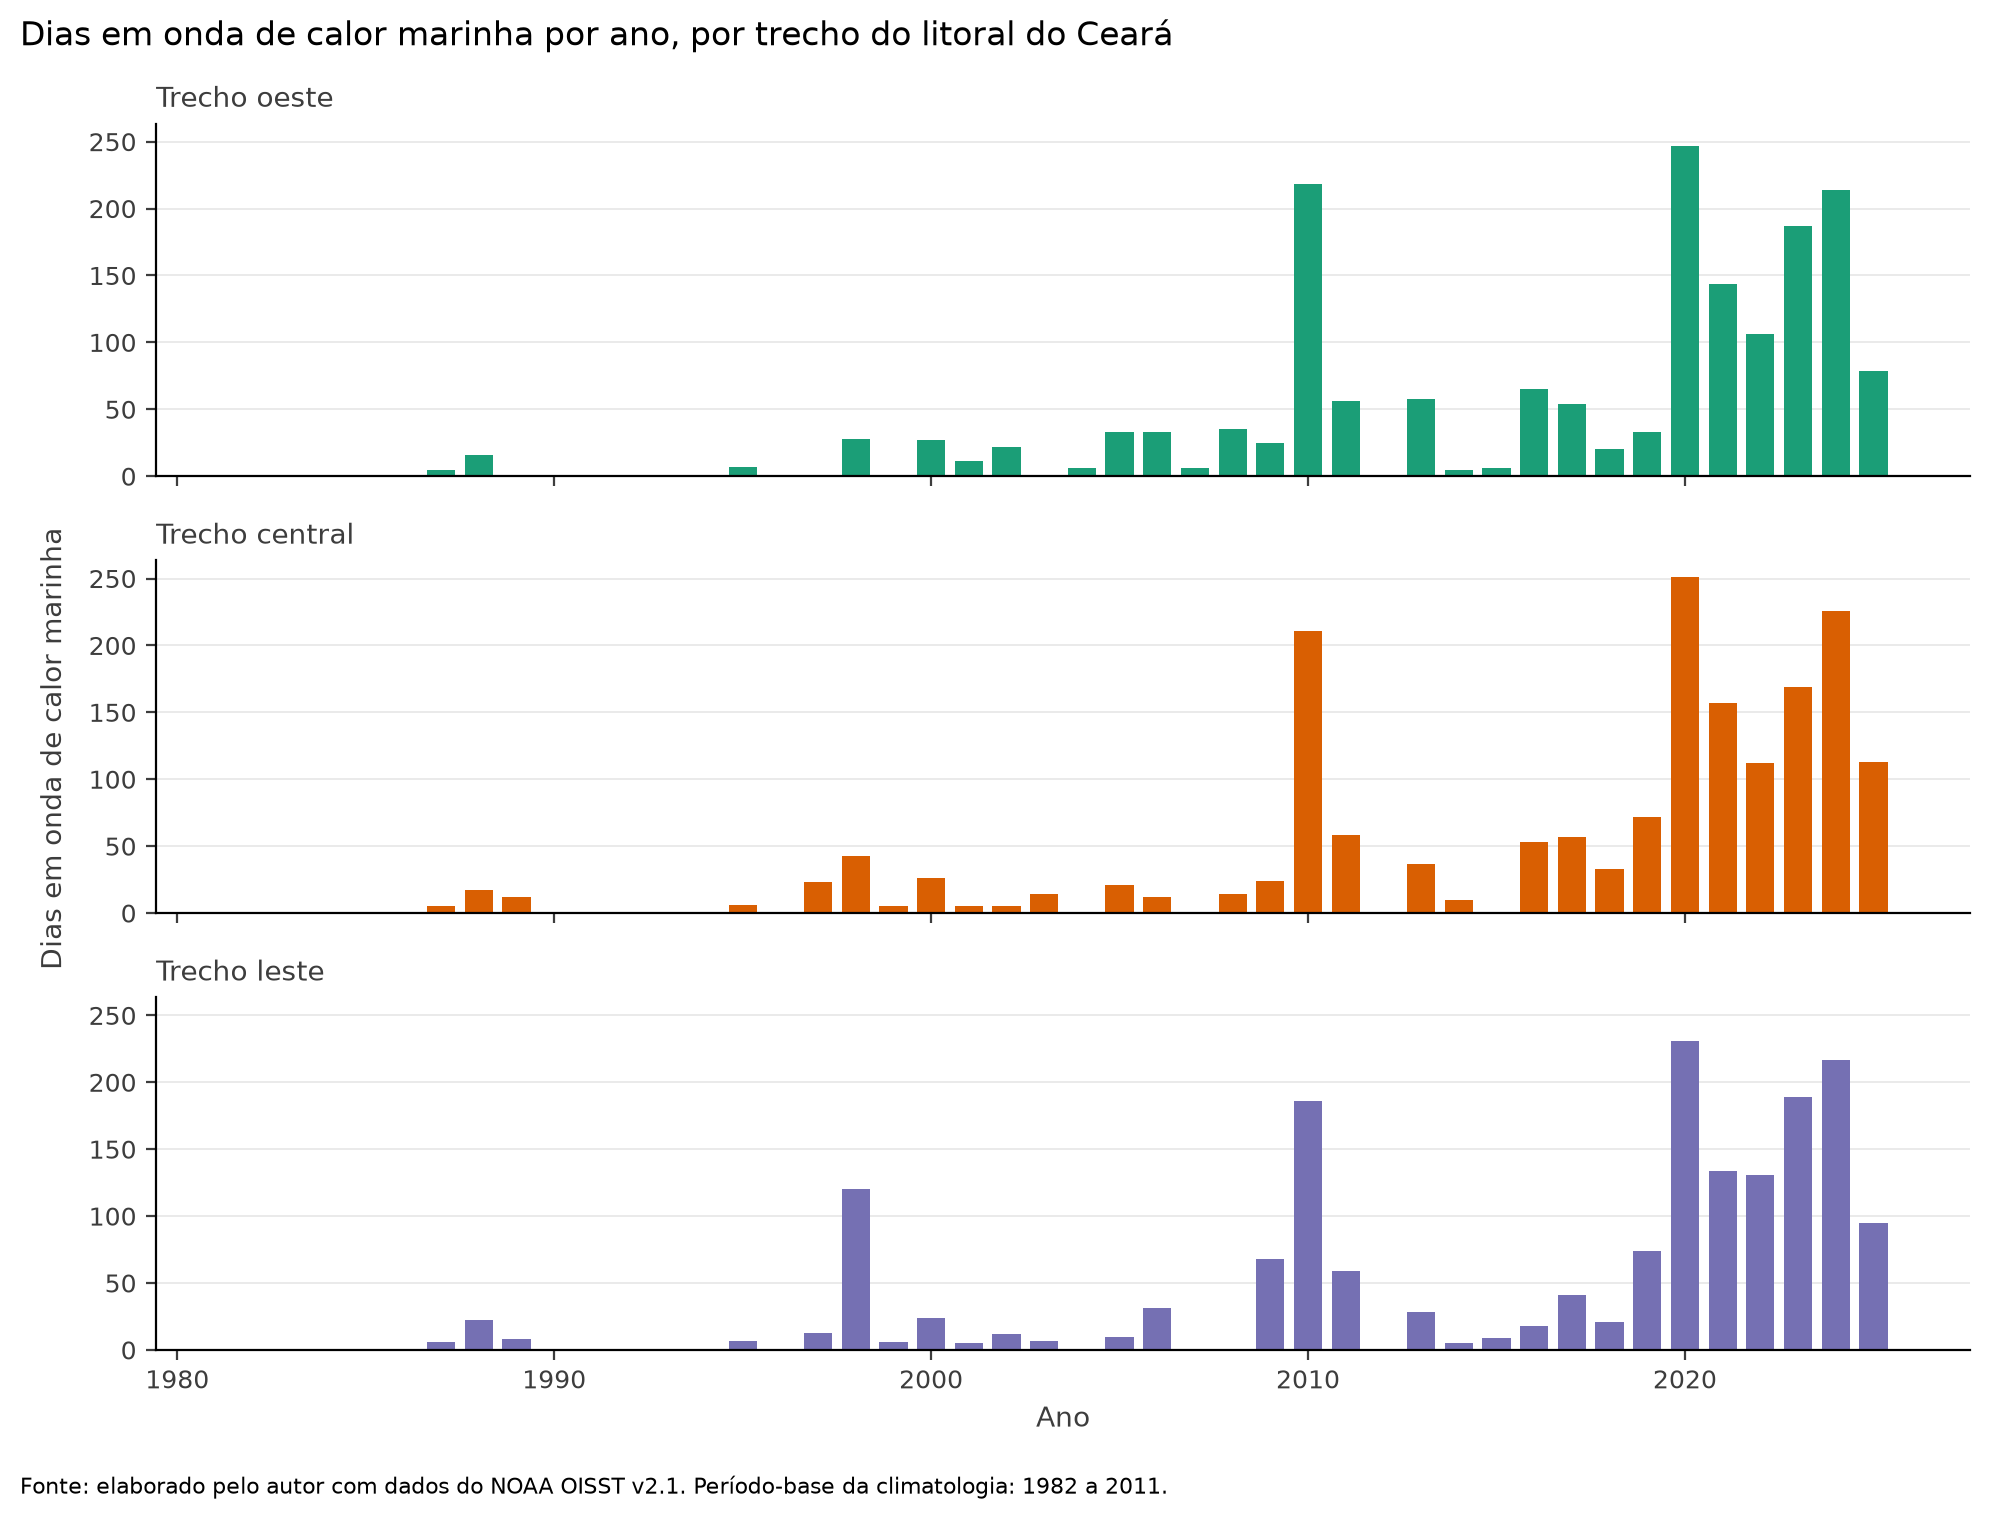
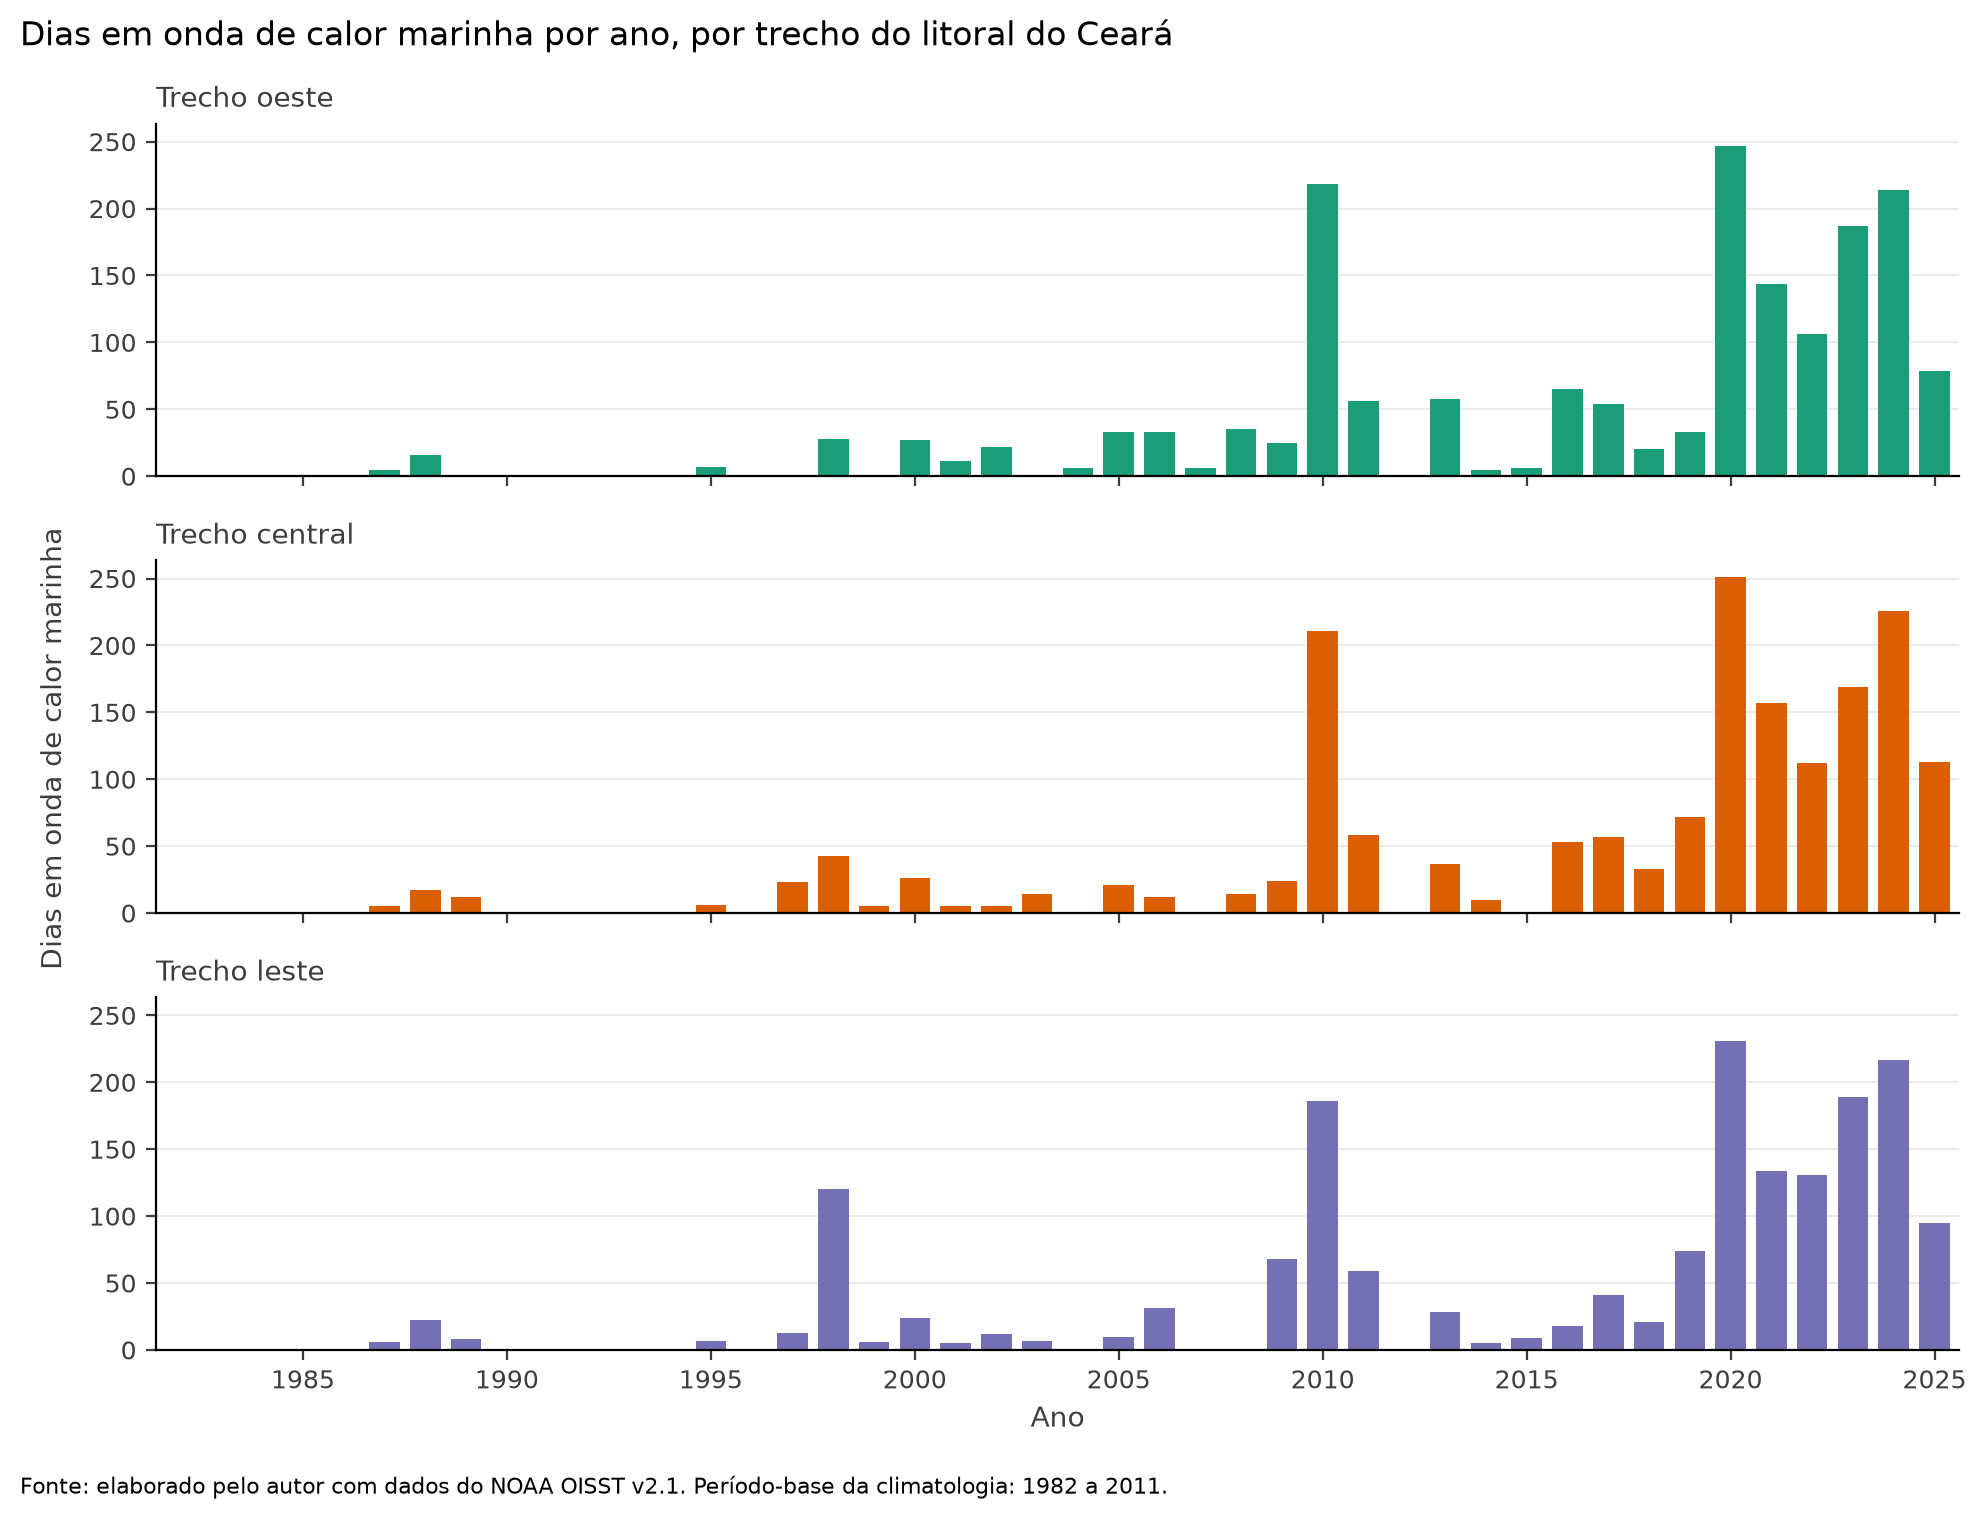
Validação com registros de branqueamento de corais no Ceará

diff --git a/src/mhwceara/figuras.py b/src/mhwceara/figuras.py
@@ -156,6 +156,13 @@ def dias_por_ano(
         ax.bar(a.index, a["dias_onda_calor"], width=0.75, color=CORES_TRECHOS.get(trecho, "gray"))
         ax.set_title(f"Trecho {trecho}", loc="left", fontsize=10, color=COR_TEXTO)
         _estilo_painel(ax)
+    # eixo começa e termina nos anos com dado, com marcas a cada 5 anos
+    primeiro, ultimo = (
+        min(a.index.min() for a in anual.values()),
+        max(a.index.max() for a in anual.values()),
+    )
+    eixos[-1].set_xlim(primeiro - 0.6, ultimo + 0.6)
+    eixos[-1].set_xticks(range(int(np.ceil(primeiro / 5) * 5), int(ultimo) + 1, 5))
     eixos[-1].set_xlabel("Ano", color=COR_TEXTO)
     fig.supylabel("Dias em onda de calor marinha", color=COR_TEXTO, fontsize=10)
     fig.suptitle(titulo, fontsize=12, x=0.01, ha="left")
@@ -170,9 +177,14 @@ def serie_com_eventos(
     titulo: str,
     fonte: str,
     nome: str | None = None,
+    destaque: tuple[str, str, str] | None = None,
 ) -> Path:
     """TSM diária de um ano, com climatologia, limiar e os eventos detectados sombreados,
-    um painel por trecho (a figura clássica de Hobday et al., 2016)."""
+    um painel por trecho (a figura clássica de Hobday et al., 2016).
+
+    destaque: (início, fim, rótulo), com datas "AAAA-MM-DD", para marcar um período de
+    referência (por exemplo, um episódio documentado na literatura) com uma faixa cinza.
+    """
     import matplotlib.dates as mdates
     from matplotlib.lines import Line2D
     from matplotlib.ticker import FuncFormatter
@@ -199,9 +211,20 @@ def serie_com_eventos(
         ax.plot(c.index, c["temp"], color="#1f1f1f", linewidth=1.2)
         ax.plot(c.index, c["clim"], color="#8a8a8a", linewidth=1.0)
         ax.plot(c.index, c["limiar"], color="#8a8a8a", linewidth=1.0, linestyle="--")
+        if destaque:
+            ax.axvspan(
+                pd.Timestamp(destaque[0]),
+                pd.Timestamp(destaque[1]),
+                color="#d4d4d4",
+                alpha=0.5,
+                linewidth=0,
+                zorder=0,
+            )
         ax.set_title(f"Trecho {trecho}", loc="left", fontsize=10, color=COR_TEXTO)
         virgula_decimal(ax.yaxis)
         _estilo_painel(ax)
+    # só o ano pedido no eixo (sem a marca de janeiro do ano seguinte)
+    eixos[-1].set_xlim(pd.Timestamp(f"{ano}-01-01"), pd.Timestamp(f"{ano}-12-31"))
     eixos[-1].xaxis.set_major_locator(mdates.MonthLocator())
     eixos[-1].xaxis.set_major_formatter(
         FuncFormatter(lambda x, _: MESES[mdates.num2date(x).month - 1])
@@ -216,10 +239,12 @@ def serie_com_eventos(
         ),
         Patch(color="#9a9a9a", alpha=0.45, label="onda de calor marinha detectada"),
     ]
+    if destaque:
+        legenda.append(Patch(color="#d4d4d4", alpha=0.5, label=destaque[2]))
     eixos[0].legend(
         handles=legenda,
         loc="upper left",
-        ncol=4,
+        ncol=len(legenda),
         fontsize=8,
         frameon=False,
         bbox_to_anchor=(0, 1.32),

diff --git a/scripts/detectar_eventos.py b/scripts/detectar_eventos.py
@@ -8,6 +8,8 @@ Gera:
   - outputs/tabelas/eventos_por_trecho.csv: um evento por linha;
   - outputs/tabelas/metricas_anuais_por_trecho.csv: um ano por linha, por trecho;
   - outputs/tabelas/resumo_por_trecho.csv: resumo de cada trecho;
+  - outputs/tabelas/validacao_branqueamento.csv: dias em onda de calor nos anos com
+    branqueamento de corais documentado no Ceará e a posição desses anos na série;
   - outputs/figuras/dias_onda_calor_por_ano.png e outputs/figuras/tsm_eventos_2020.png.
 Uso:  python scripts/detectar_eventos.py
 """
@@ -16,7 +18,7 @@ import pandas as pd
 from tqdm import tqdm
 
 from mhwceara import dados, deteccao, figuras, trechos
-from mhwceara.config import PASTAS, PERIODO_BASE
+from mhwceara.config import DESTAQUE_2020, PASTAS, PERIODO_BASE, REGISTROS_BRANQUEAMENTO
 
 FONTE = (
     "Fonte: elaborado pelo autor com dados do NOAA OISST v2.1. "
@@ -55,12 +57,37 @@ for nome, r in resultados.items():
     maiores = maiores.round({"intensidade_maxima": 2, "intensidade_cumulativa": 2})
     print("    " + maiores.to_string(index=False).replace("\n", "\n    "))
 
+# validação: os anos com branqueamento documentado estão entre os de mais dias em onda de calor?
+dias = deteccao.empilhar(resultados, "anual").pivot(
+    index="ano", columns="trecho", values="dias_onda_calor"
+)[list(resultados)]
+posicao = dias.rank(ascending=False, method="min")  # 1 = ano com mais dias no trecho
+validacao = (
+    pd.DataFrame(REGISTROS_BRANQUEAMENTO)
+    .set_index("ano")
+    .join(dias.add_prefix("dias_"))
+    .join(posicao.add_prefix("posicao_").astype(int))
+)
+validacao.to_csv(PASTAS.tabelas / "validacao_branqueamento.csv")
+anos_registro = validacao.index
+print("\n== Validação: anos com branqueamento de corais documentado no Ceará")
+print(validacao.drop(columns=["registro", "fonte"]).to_string())
+print(
+    f"  média de dias em onda de calor: {dias.loc[anos_registro].mean().mean():.0f} nos anos com "
+    f"registro | {dias.drop(index=anos_registro).mean().mean():.0f} nos demais anos "
+    f"(posição 1 = ano com mais dias entre os {len(dias)})"
+)
+
 anual = {n: r["anual"] for n, r in resultados.items()}
 fig1 = figuras.dias_por_ano(
     anual, "Dias em onda de calor marinha por ano, por trecho do litoral do Ceará", FONTE
 )
 fig2 = figuras.serie_com_eventos(
-    resultados, 2020, "TSM diária em 2020 e ondas de calor marinhas detectadas", FONTE
+    resultados,
+    2020,
+    "TSM diária em 2020 e ondas de calor marinhas detectadas",
+    FONTE + " Período de branqueamento: Lucas (2022).",
+    destaque=DESTAQUE_2020,
 )
 print(f"\ngravado: {fig1}\ngravado: {fig2}")
 print(f"tabelas em {PASTAS.tabelas}")

diff --git a/src/mhwceara/config.py b/src/mhwceara/config.py
@@ -98,3 +98,34 @@ class Pastas:
 
 
 PASTAS = Pastas(raiz_projeto())
+
+# Registros de branqueamento de corais no litoral do Ceará, usados para validar a detecção
+# (anos com dano ecológico documentado, independente dos dados de TSM do projeto)
+REGISTROS_BRANQUEAMENTO = (
+    {
+        "ano": 2010,
+        "registro": "branqueamento em massa de Siderastrea stellata",
+        "fonte": "SOARES et al. (2019)",
+    },
+    {
+        "ano": 2020,
+        "registro": "branqueamento de 91% das colônias de S. stellata, de fevereiro a junho",
+        "fonte": "LUCAS et al. (2023); LUCAS (2022)",
+    },
+    {
+        "ano": 2023,
+        "registro": "branqueamento em quase todo o litoral (relato de pesquisador)",
+        "fonte": "Diário do Nordeste (2025)",
+    },
+    {
+        "ano": 2024,
+        "registro": "branqueamento em quase todo o litoral (relato de pesquisador)",
+        "fonte": "Diário do Nordeste (2025)",
+    },
+)
+# Período do branqueamento de 2020 no Ceará (LUCAS, 2022), para destacar na figura de 2020
+DESTAQUE_2020 = (
+    "2020-02-01",
+    "2020-06-30",
+    "branqueamento de corais no Ceará (LUCAS et al., 2023)",
+)
